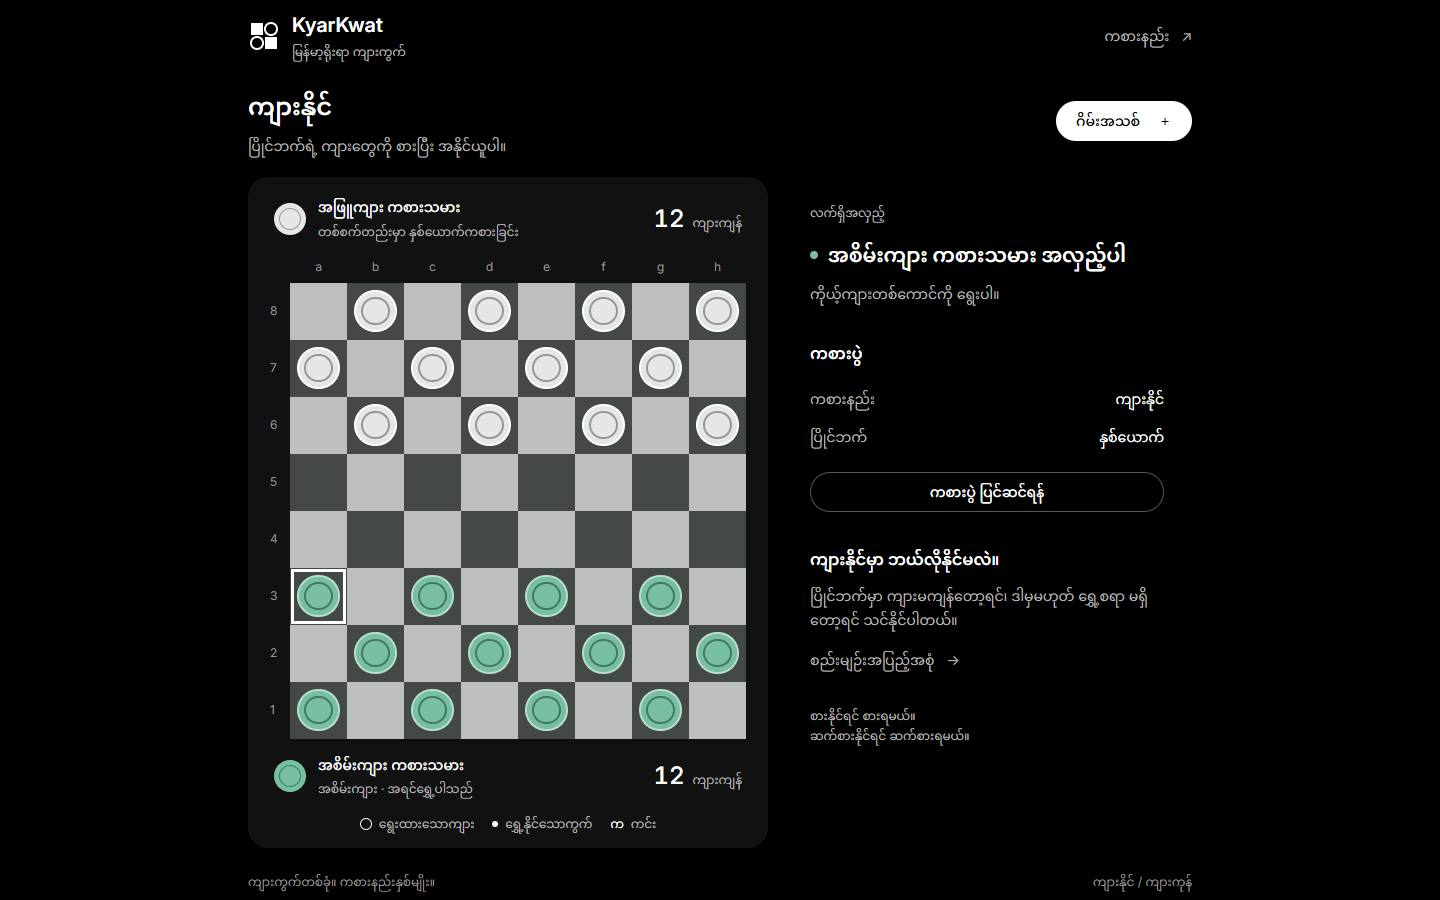
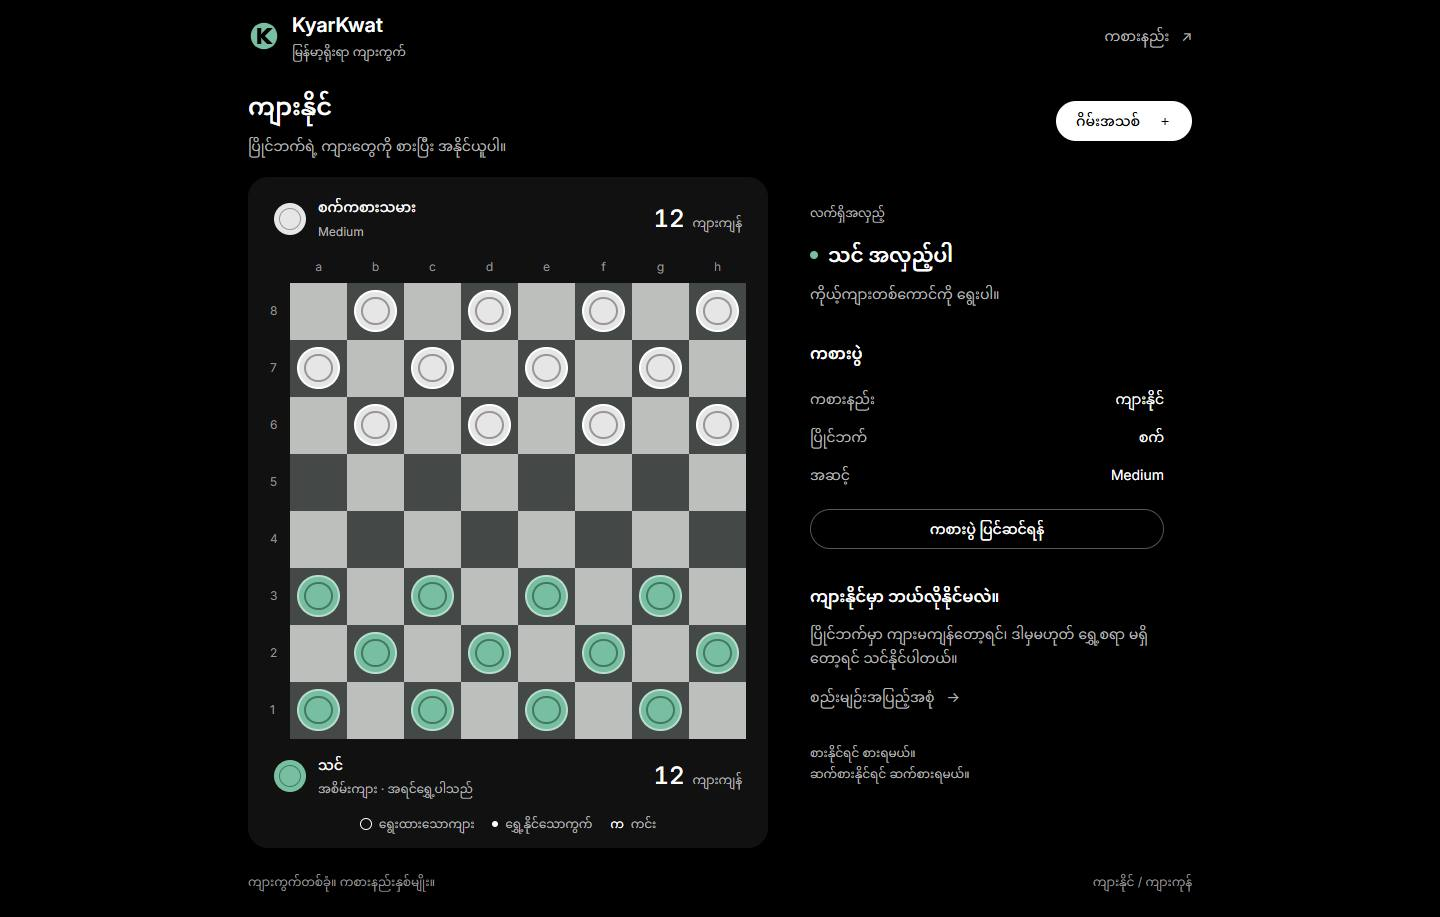
docs(branding): document assets verification and refresh screenshots

diff --git a/docs/DEVELOPMENT.md b/docs/DEVELOPMENT.md
@@ -56,7 +56,7 @@ Prepare the tested static site using PowerShell 7:
 ./scripts/Prepare-Vercel.ps1
 ```
 
-This publishes the app and produces Vercel Build Output API v3 under `.vercel/output/`, with all static assets in `static/`. It verifies each copied file's hash and the Blazor bootstrap file. Only generated `.vercel/output/` is replaced; the project link in `.vercel/project.json` is preserved. `.vercel/` is ignored by source control.
+This publishes the app and produces Vercel Build Output API v3 under `.vercel/output/`, with all static assets in `static/`. It verifies each copied file's hash and the Blazor bootstrap file. Generated `artifacts/publish/` is cleaned before publishing so obsolete fingerprints are not uploaded, and `.vercel/output/` is replaced; the project link in `.vercel/project.json` is preserved. `.vercel/` is ignored by source control.
 
 After authenticating and explicitly linking the intended Vercel account/team/project, verify the link and deploy the prebuilt site:
 
@@ -70,8 +70,8 @@ No .NET build is required on Vercel.
 Live production site: **https://kyarkwat.vercel.app** (deployed 2026-11-09).
 
 - Team/project: `sann-lynn-htuns-projects/kyarkwat`.
-- Deployment: `dpl_6GqDBt4ZafrFxQn64Qs3Vtg8Xms4`, state `READY`, production.
-- Inspector: https://vercel.com/sann-lynn-htuns-projects/kyarkwat/6GqDBt4ZafrFxQn64Qs3Vtg8Xms4.
+- Deployment: `dpl_HingzbXpbcDqM8oSGRapp3LNqEmX`, state `READY`, production.
+- Inspector: https://vercel.com/sann-lynn-htuns-projects/kyarkwat/HingzbXpbcDqM8oSGRapp3LNqEmX.
 - Anonymous HTTP verification returned the game with status 200; the native WASM runtime returned 200 with `application/wasm`. No Vercel login is required on the production alias.
 - The initial production release passed all 1,100 browser assertions/eight complete games. The mobile update passed the same 1,100 regression assertions locally; current touch-specific production verification is recorded below.
 - This is a local CLI deployment; no Git integration or automatic redeploy was configured.
@@ -154,6 +154,10 @@ Not tested on physical phones or with a screen reader. Real-device performance c
 
 `specs/001-kyarkwat/` contains the implementation documents; `design/` retains the approved prototype for reference.
 
-Rule reference: https://harryheinthant.site/checker. The supplied cheese-themed Downloads folder was reviewed for flow, with no code/assets copied into the app. The SVG mark and CSS counters are original to the approved design.
+Rule reference: https://harryheinthant.site/checker. The supplied cheese-themed Downloads folder was reviewed for flow, with no code/assets copied into the app. The original Jump K counter mark and generated sizes are documented in [BRANDING.md](BRANDING.md); CSS playing counters retain their existing styling.
 
 Inter and Noto Sans Myanmar are bundled locally under SIL Open Font Licenses in `wwwroot/fonts/`. Sources: [Google Fonts Inter](https://github.com/google/fonts/tree/main/ofl/inter) and [Noto Sans Myanmar](https://github.com/google/fonts/tree/main/ofl/notosansmyanmar). The production app makes no external font requests.
+
+## Branding follow-up
+
+The current release uses the Jump K counter across header/loading, adaptive favicon, app icons, manifest and social metadata. See [BRANDING.md](BRANDING.md) for the single SVG master, regeneration, all output sizes, 60 local/live asset checks and remaining limitations. Existing 100 C# / 1,100 browser / 342 touch checks passed on the branded local build.

diff --git a/README.md b/README.md
@@ -1,4 +1,4 @@
-<p><a href="https://kyarkwat.vercel.app/"><img src="docs/images/mark.svg" width="72" height="72" alt="Kyar Kwat logo" /></a></p>
+<p><a href="https://kyarkwat.vercel.app/"><img src="BlazorWasm.KyarKwat/wwwroot/branding/icon-192.png" width="72" height="72" alt="KyarKwat Jump K counter logo" /></a></p>
 
 # Kyar Kwat — မြန်မာ့ရိုးရာ ကျားကွက်
 
@@ -98,6 +98,16 @@ C# Assertions **၁၀၀**၊ Browser Assertions **၁,၁၀၀** နဲ့ To
 ## ကိုယ်တိုင် ပြန်ရေးကြည့်ချင်ရင်
 
 Board State → Legal Routes → Apply Turn → Result → Computer Search ဆိုတဲ့ Flow ကို အရင်ခွဲလေ့လာပါ။ UI မရေးခင် Compulsory Capture၊ Maximum Capture၊ ကင်း၊ ကျားကုန်အနိုင်အရှုံးနဲ့ Draw ကို Board Fixture တွေနဲ့ စစ်ကြည့်ပါ။ ကိုယ်နှစ်သက်တဲ့ Language / Platform နဲ့ ပြန်ရေးကြည့်နိုင်ပါတယ်။
+
+## Logo နဲ့ Brand Assets
+
+Logo အသစ်က ကျားအဝိုင်းထဲမှာ **K ပုံစံကို Transparent Cutout** အဖြစ် ရေးထားတဲ့ **Jump K counter** ပါ။ လက်ရှိ App ရဲ့ Mint Green / Black Palette နဲ့ လိုက်ဖက်ပြီး Light Surface အတွက် အစိမ်းရင့် Variant ပါရှိပါတယ်။
+
+![Jump K counter on light and dark surfaces](docs/images/brand-preview.png)
+
+[Transparent SVG Master](BlazorWasm.KyarKwat/wwwroot/branding/logo-master.svg) · [Transparent PNG](BlazorWasm.KyarKwat/wwwroot/branding/logo-dark.png) · [Assets နဲ့ အသုံးပြုပုံ](docs/BRANDING.md)
+
+Favicon 16/32/48၊ Apple Icon 180၊ App Icons 192/512၊ Maskable Icon နဲ့ Social Card 1200×630 တို့ကို Master တစ်ခုတည်းကနေ ထုတ်ထားပါတယ်။ Node 22+ နဲ့ Chrome/Edge ရှိရင် `node scripts/build-brand.mjs` နဲ့ ပြန်ထုတ်နိုင်ပါတယ်။ App က Dark Theme ဖြစ်ပြီး Logo Variant တွေကို Light/Dark Surface နှစ်မျိုးလုံးမှာ စစ်ထားပါတယ်။
 
 ## ပံ့ပိုးသူများနှင့် Credits
 

diff --git a/docs/BRANDING.md b/docs/BRANDING.md
@@ -40,3 +40,16 @@ The script renders the master in a fresh, isolated headless browser profile unde
 `docs/images/mark.svg` remains an adaptive compatibility export for existing public README image URLs. `docs/images/brand-preview.png` shows both surface variants. Neither is an independent design source.
 
 The logo and geometry are authored directly in SVG because this repository already uses vector branding and requires deterministic small icons. No AI raster image, stock image, third-party logo, or additional typeface was used. Existing rules references and font attribution remain in the project README and font-license files.
+
+## Verification and release — 2026-11-09
+
+- Generator checks passed: 11 PNGs with expected dimensions, true transparent master corners/K cutout, SVG variants and 16/32/48 multi-resolution ICO.
+- **60 brand assertions** passed locally and against https://kyarkwat.vercel.app: public asset requests, metadata, manifest, all icon sizes, identical SVG geometry, loading/header logos, 360/390px layouts, light/dark favicon rendering and maskable safe area.
+- **100 C# assertions**, **1,100 game browser assertions/eight full games**, and **342 touch assertions/two full games** passed against the branded local build.
+- Style lint and desktop/tablet/mobile inspection passed with zero findings, retaining only the existing allowance for a native modal intentionally covering the inert background heading.
+- Published output is cleaned before each build; only the current game-assembly fingerprint is deployed. Old inline four-square logos and the empty favicon were replaced. The public README compatibility export contains the new geometry.
+- Production deployment: `dpl_HingzbXpbcDqM8oSGRapp3LNqEmX` (`READY`). The public page and social image return HTTP 200 without authentication.
+
+Desktop/mobile screenshots are in `docs/images/`. Generated check evidence remains under ignored `.taste-skill/branding/` and `.taste-skill/brand-layout/`.
+
+Not checked on physical iOS/Android devices or by installing home-screen icons. Actual social-network cache/preview refresh is not tested. The manifest supplies icon/display metadata; no offline service worker or new app theme was added.

diff --git a/specs/001-kyarkwat/tasks.md b/specs/001-kyarkwat/tasks.md
@@ -43,3 +43,5 @@ All implementation paths are relative to `kyarkwat/`. Execute phases in order. N
 - [x] T016 Prepare hash-verified Vercel Build Output API v3 artifacts with `scripts/Prepare-Vercel.ps1`, create/link the dedicated `kyarkwat` project in the verified account, deploy production, confirm anonymous HTTPS and WASM content type, and run all 1,100 browser assertions/eight complete games against https://kyarkwat.vercel.app. Record deployment and physical-device/log-inspection limits in `README.md`. [FR-001, SC-001, SC-003, SC-004]
 
 - [x] T017 Audit live mobile layouts and touch interactions; enlarge phone cells to full width (40px at 320px, 45px at 360px), compact the header/status, prevent count wrapping, enlarge touch choices, preserve page swipes/pinch zoom, and lock modal background scrolling. Verify 342 real touch-event assertions/two full games and six AI combinations at six sizes locally and on the updated production site, plus 1,100 local regression assertions. Deploy `dpl_6GqDBt4ZafrFxQn64Qs3Vtg8Xms4` and record remaining physical-device limitations. [FR-008, FR-010, SC-003, SC-004]
+
+- [x] T018 Replace placeholder branding with the original transparent Jump K vector master; derive surface variants, all favicon/home-screen sizes, maskable icon and social card. Integrate header/loading, manifest and metadata; update screenshots, repo/BPA documentation and preserve credits. Verify generation, 60 local/live branding assertions, 100 C# assertions, 1,100 game checks, 342 touch checks and style inspection; deploy production `dpl_HingzbXpbcDqM8oSGRapp3LNqEmX`. Record physical-device/install/social-preview limitations in `docs/BRANDING.md`. [FR-001, FR-010, SC-001, SC-003, SC-004]

diff --git a/design/README.md b/design/README.md
@@ -27,7 +27,7 @@ No redraws. Explicit composition adaptation: omit the dealt Ruled T-frame sideba
 
 Subject inventory: Burmese name; 8×8 geometry; 12 counters per side; green first; compulsory capture; longest capture chains; stacked king counters; forward moves; opposite win objectives; feeding pieces; three computer levels; shared-device play.
 
-Signature: the board's two-ring counter silhouette, Burmese `က` king mark, and the selected mode's exact winning objective. The four-square/counter wordmark is inline SVG. No stock imagery is needed.
+Signature: the board's two-ring counter silhouette, Burmese `က` king mark, and the selected mode's exact winning objective. The initial four-square wordmark has been replaced by the shared Jump K counter from `../BlazorWasm.KyarKwat/wwwroot/branding/`; the prototype uses the same asset as the app. No stock imagery is needed.
 
 ## Screen questions and flow
 
